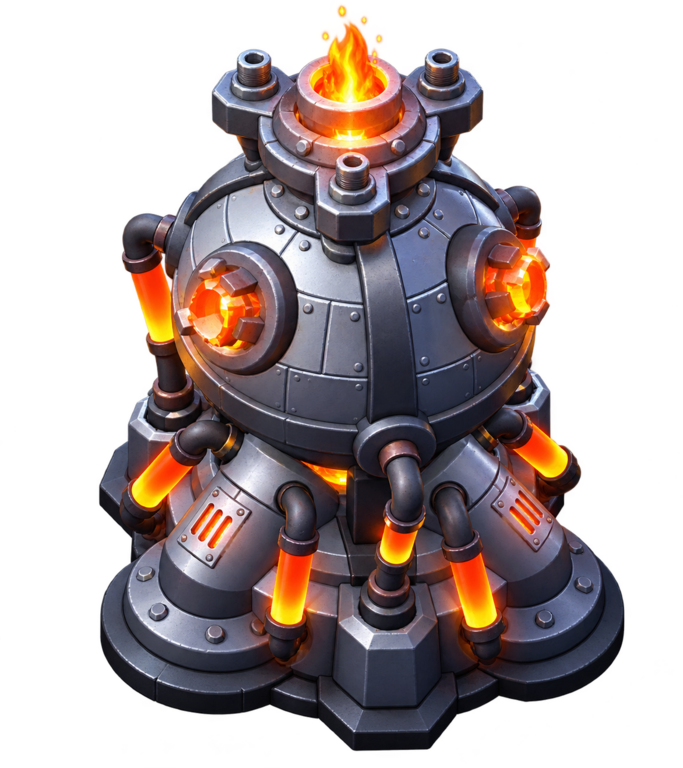
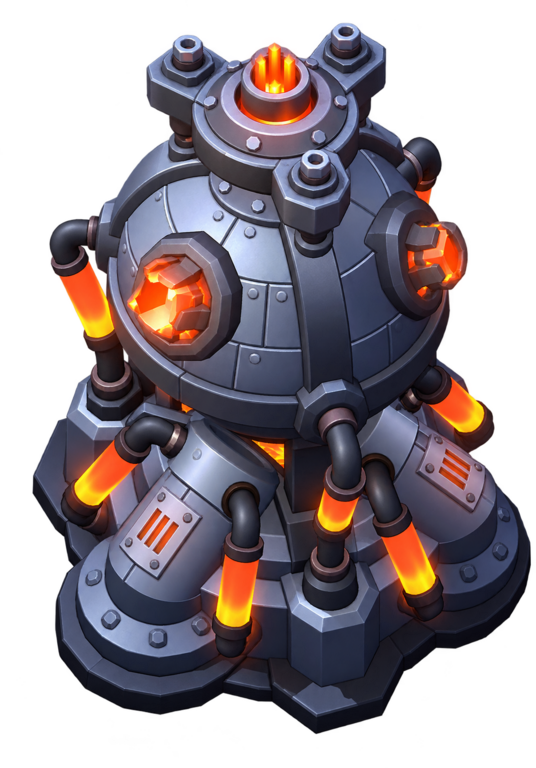
Replace smoke-free furnace skins for FC1 and FC2

diff --git a/src/app.js b/src/app.js
@@ -66,7 +66,7 @@ const furnaceVisualAssets={
 function furnaceVisual(level){
   const asset=furnaceVisualAssets[level.id];
   return asset
-    ? `<img src="assets/visuals/furnaces/${asset}?v=20261009-furnace-assets-fc4-fc6-no-smoke" alt="Chaudière ${level.id}" draggable="false">`
+    ? `<img src="assets/visuals/furnaces/${asset}?v=20261009-furnace-assets-fc1-fc6-no-smoke-v2" alt="Chaudière ${level.id}" draggable="false">`
     : '<span class="furnace-placeholder" aria-hidden="true"><span class="furnace-placeholder-stack"></span><span class="furnace-placeholder-door">🔥</span></span>';
 }
 function furnaceLevelParts(level){
